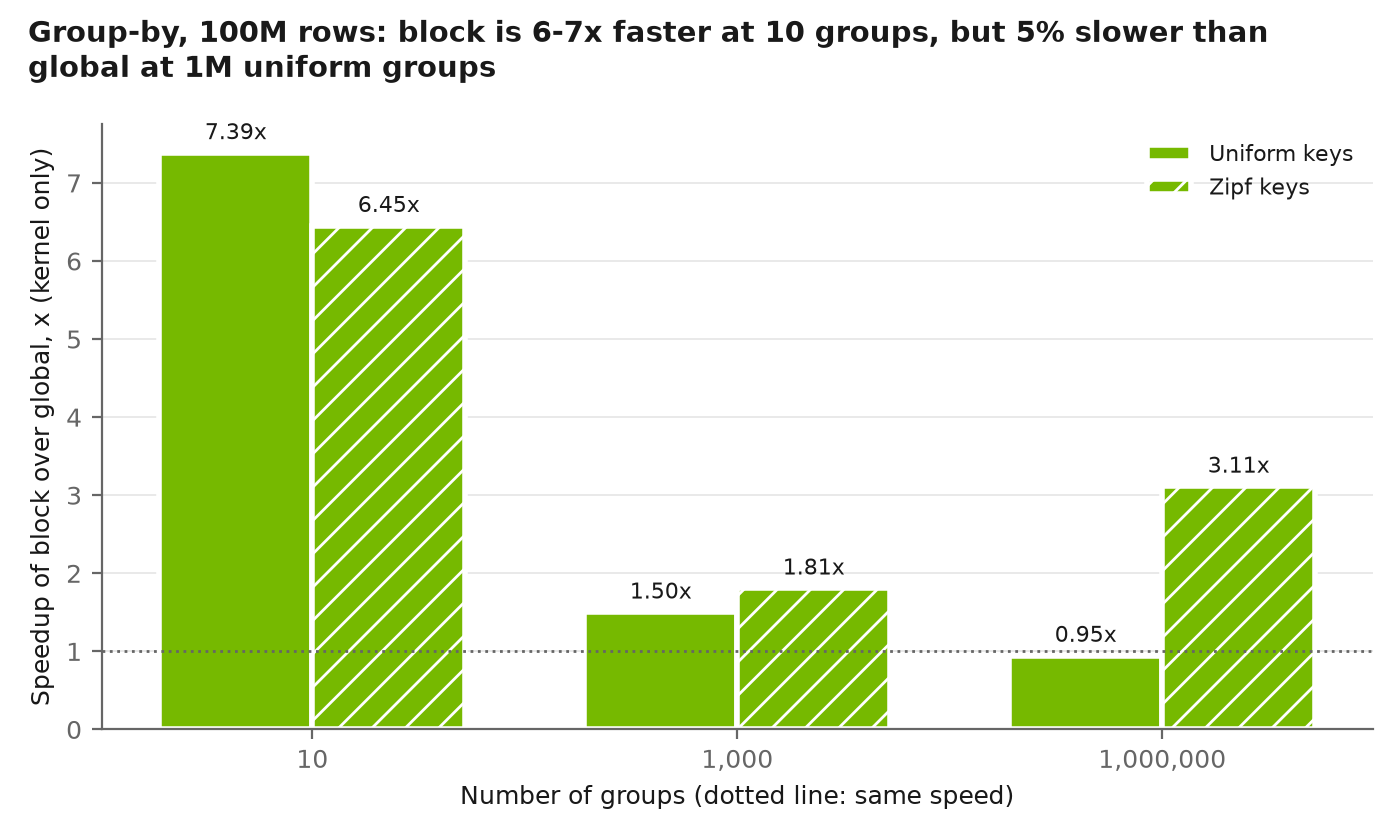
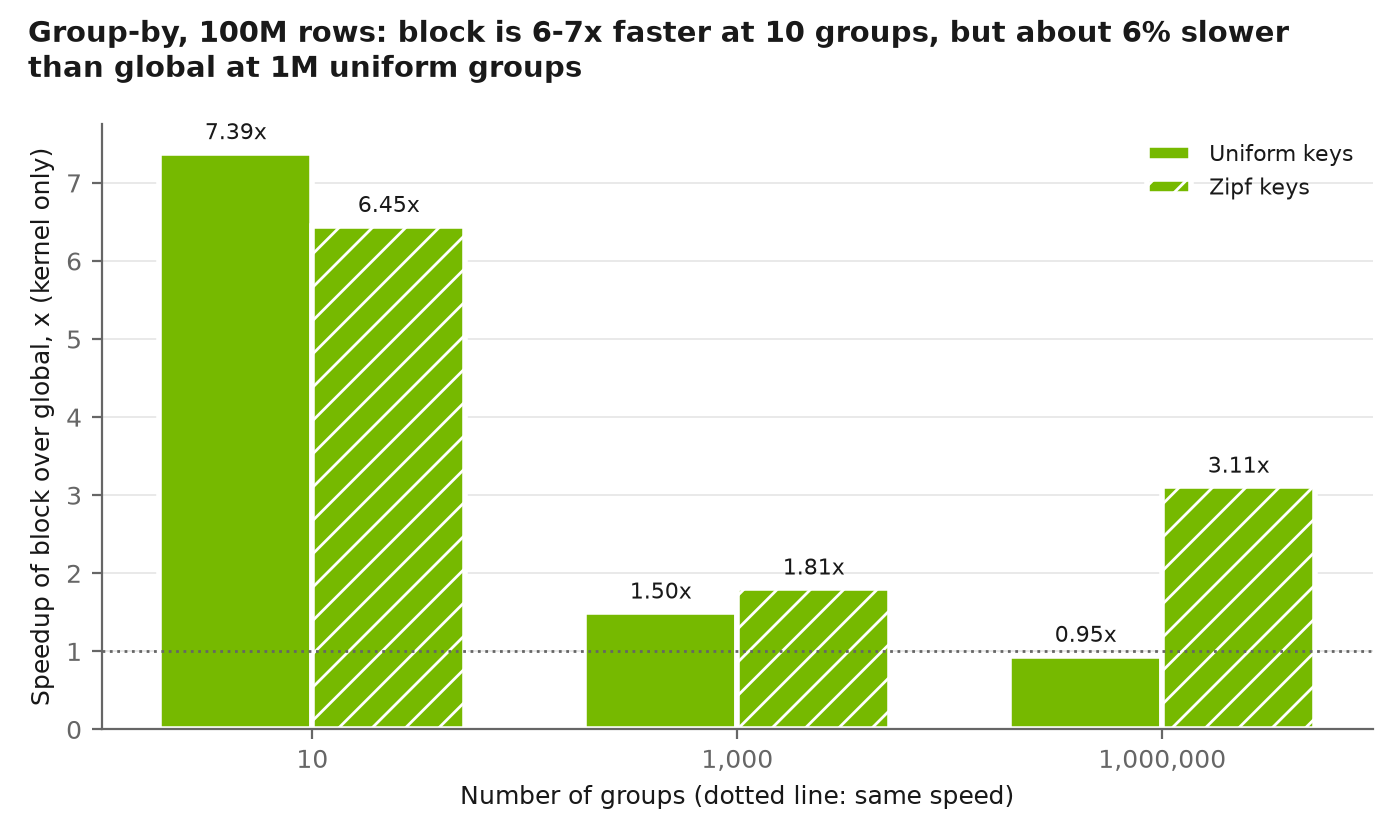
Speedup chart title: about 6% slower at 1M uniform groups

Changed region(s): [[0.0, 0.0619, 0.43, 0.0929], [0.7064, 0.0, 0.9214, 0.0619]]

diff --git a/benchmarks/plot.py b/benchmarks/plot.py
@@ -165,7 +165,7 @@ def groupby_block_speedup(g):
     ax.grid(axis="x", visible=False)
     ax.legend(loc="upper right", fontsize=8)
     save(fig, "groupby_block_speedup.png", "Group-by, 100M rows: block is 6-7x faster at 10 "
-         "groups, but 5% slower than global at 1M uniform groups")
+         "groups, but about 6% slower than global at 1M uniform groups")
 
 
 def main():
